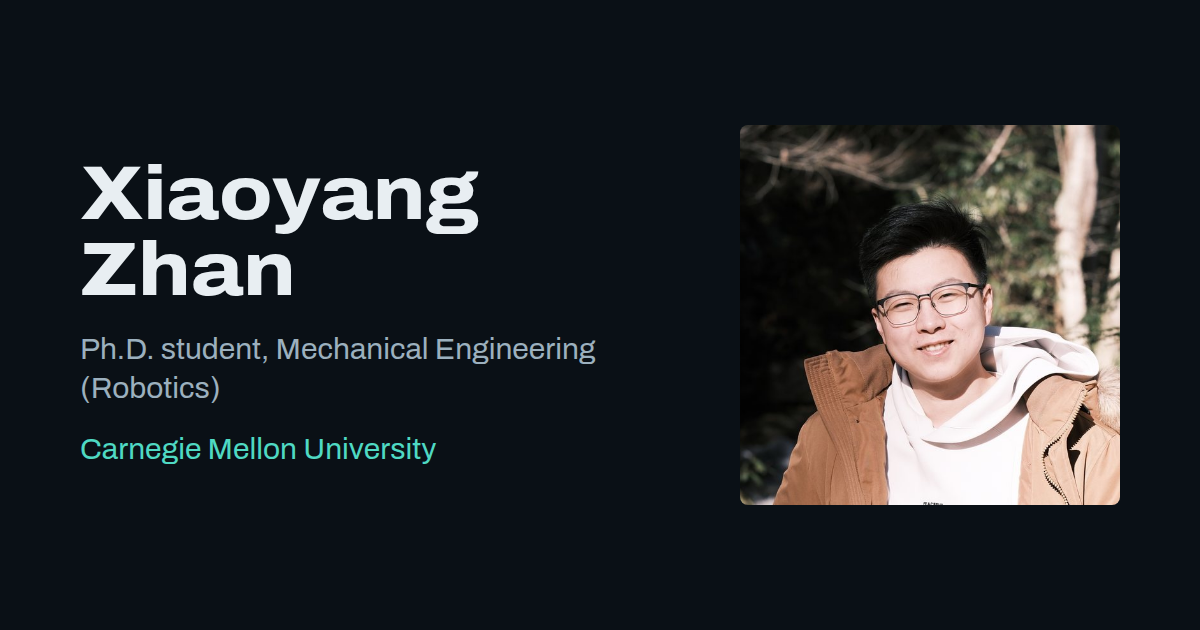
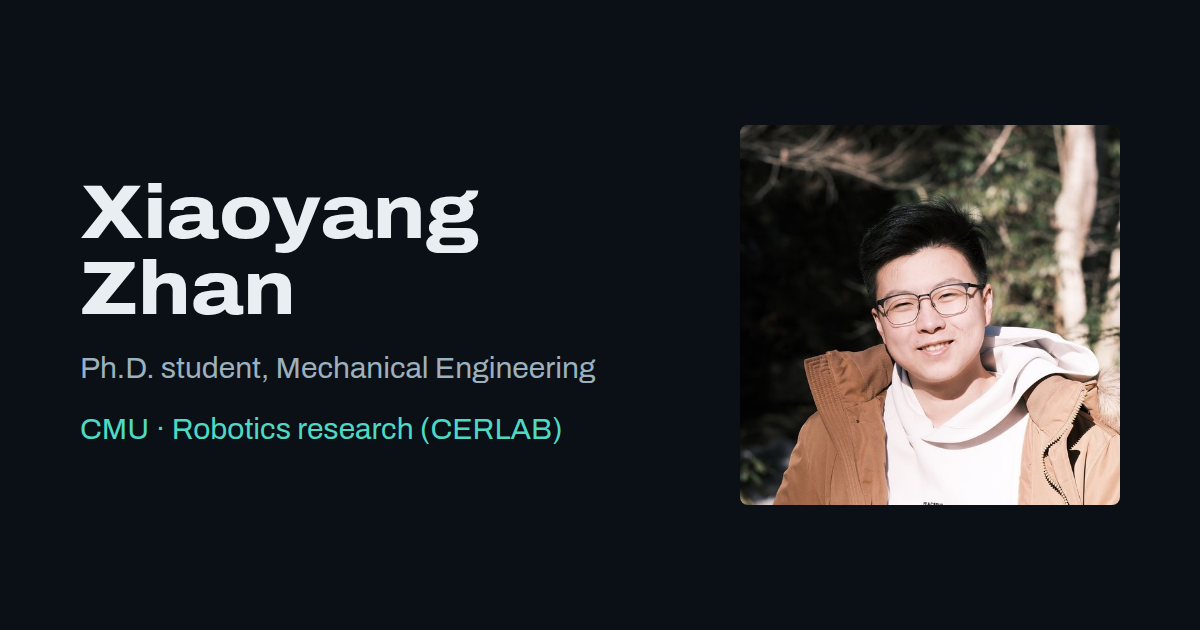
update

Changed region(s): [[0.0617, 0.2413, 0.4008, 0.5127], [0.0617, 0.5429, 0.4933, 0.6333], [0.0617, 0.6635, 0.4933, 0.754]]

diff --git a/src/data/site.ts b/src/data/site.ts
@@ -8,8 +8,9 @@ export const site = {
     'Ph.D. student at Carnegie Mellon University (CERLAB) working on decision-making, active perception, and semantic mapping for single robots and multi-robot teams, with hands-on experience across the robot autonomy stack.',
   url: 'https://shawn207.github.io',
 
-  role: 'Ph.D. student, Mechanical Engineering (Robotics)',
+  role: 'Ph.D. student in Mechanical Engineering',
   affiliation: 'Carnegie Mellon University',
+  focus: 'Robotics research (CERLAB)',
 
   portrait: {
     src: '/media/portrait.jpg',
@@ -36,41 +37,32 @@ export const site = {
   cv: '/Xiaoyang_Zhan_CV.pdf',
 
   researchInterest:
-    'My research is about how robots decide where to look and where to go: decision-making and planning for single robots and multi-robot teams, active perception, and semantic mapping, validated on a Boston Dynamics Spot and custom UAVs. Lately I have been connecting these with vision-language models for embodied AI.',
+    'How robots decide where to look and where to go: decision-making and planning for single robots and multi-robot teams, active perception, and semantic mapping, validated on a Boston Dynamics Spot and custom UAVs. Lately I am connecting these with vision-language models for embodied AI.',
 
-  themes: [
-    {
-      title: 'Decision-making for robots and robot teams',
-      text: 'How a robot picks its next viewpoint or goal, and how a team divides the work when its members sense and move differently.',
-    },
-    {
-      title: 'Active perception and semantic mapping',
-      text: 'Planning where to look so a robot gathers the observations a task needs, and turning those observations into maps it can plan on.',
-    },
-    {
-      title: 'Vision-language models in the loop',
-      text: 'Using VLM judgments, grounded in spatial memory, to make planning decisions that a robot can execute.',
-    },
+  topics: [
+    'Decision-making for robots and robot teams',
+    'Active perception and semantic mapping',
+    'Vision-language models in the loop',
   ],
 
   strengths: {
-    lede: 'My strength is the whole robot-autonomy stack, and the field experience to make it work on real machines. I build the pieces and connect them: sensing and calibration, mapping, planning, and the execution layer that keeps a robot safe when the plan meets reality. These systems have run on a legged robot and on custom quadrotors, in machine shops, lobbies, construction-site mock-ups, and indoor flight arenas. I also mentor a research team of up to eight.',
+    lede: 'The whole robot-autonomy stack, plus the field experience to make it work on real machines: a legged robot and custom quadrotors, in machine shops, lobbies, construction-site mock-ups, and flight arenas. I also mentor a research team of up to eight.',
     layers: [
       {
         label: 'Sensing and calibration',
-        text: 'LiDAR-camera fusion and calibration, panoramic and RGB-D perception, real-time dynamic-object detection and tracking.',
+        text: 'LiDAR-camera fusion and calibration, panoramic and RGB-D perception, dynamic-object tracking.',
       },
       {
         label: 'Mapping and estimation',
-        text: 'FAST-LIO2 odometry, occupancy mapping, dense semantic object mapping, Kalman-filter tracking, Segment Anything, PyTorch and OpenCV.',
+        text: 'FAST-LIO2 and VINS, occupancy and dense semantic object mapping, Segment Anything, PyTorch, OpenCV.',
       },
       {
         label: 'Planning and decision-making',
-        text: 'Viewpoint sampling, hierarchical exploration planning, TSP solvers (LKH), A*/Dijkstra, probabilistic roadmaps, safe execution and recovery state machines, and VLM-assisted decisions.',
+        text: 'Viewpoint sampling, hierarchical exploration, TSP (LKH), A*, roadmaps, recovery state machines, VLM-assisted decisions.',
       },
       {
         label: 'Systems and deployment',
-        text: 'ROS, including multi-robot networking, MAVROS and PX4, Spot SDK, Jetson and NUC onboard computers, Docker, Linux, with Isaac Sim, Isaac Lab, Gazebo, and Habitat for simulation.',
+        text: 'ROS and multi-robot networking, PX4, Spot SDK, Jetson and NUC, Docker, Isaac Sim, Gazebo, Habitat.',
       },
     ],
   },
@@ -78,8 +70,8 @@ export const site = {
   education: [
     {
       when: 'In progress',
-      what: 'Ph.D., Mechanical Engineering (Robotics), Carnegie Mellon University',
-      note: 'CERLAB, advised by Prof. Kenji Shimada',
+      what: 'Ph.D., Mechanical Engineering, Carnegie Mellon University',
+      note: 'Robotics research in CERLAB, advised by Prof. Kenji Shimada',
     },
     { when: '2023', what: 'M.S., Mechanical Engineering, Carnegie Mellon University' },
     {

diff --git a/src/styles/global.css b/src/styles/global.css
@@ -363,7 +363,7 @@ a.chip:hover {
   display: grid;
   gap: clamp(1.5rem, 3vw, 2.5rem);
   align-items: center;
-  padding-block: clamp(1rem, 3.5vw, 2.75rem) clamp(3rem, 6vw, 5rem);
+  padding-block: clamp(1rem, 3vw, 2.25rem) clamp(1.75rem, 3vw, 2.5rem);
 }
 
 /* On narrow screens the headline comes first, then the photo, then the text. */
@@ -377,12 +377,21 @@ a.chip:hover {
   line-height: 1.04;
 }
 .hero-role {
+  text-wrap: pretty;
   display: block;
   margin-top: 0.7rem;
   font-size: clamp(1.0625rem, 1.5vw, 1.35rem);
   font-weight: 560;
   line-height: 1.3;
   color: var(--ink-2);
+}
+.hero-aff {
+  white-space: nowrap;
+}
+.hero-focus {
+  display: block;
+  margin-top: 0.15rem;
+  font-weight: 460;
 }
 .hero .portrait {
   order: 2;
@@ -650,31 +659,6 @@ a.chip:hover {
 }
 
 /* Research themes, education, contact ------------------------------------------------------ */
-
-.themes {
-  display: grid;
-  gap: 2rem;
-}
-@media (min-width: 760px) {
-  .themes {
-    grid-template-columns: repeat(3, minmax(0, 1fr));
-    gap: 2.5rem;
-  }
-}
-.theme {
-  padding-top: 0.95rem;
-  border-top: 2px solid var(--ink);
-}
-.theme h3 {
-  margin-bottom: 0.55rem;
-  font-size: 1.1rem;
-  font-stretch: 108%;
-  line-height: 1.2;
-}
-.theme p {
-  margin: 0;
-  font-size: 1rem;
-}
 
 .rows {
   display: grid;
@@ -1228,4 +1212,73 @@ div.hardware-more .chips {
 }
 .platform:has(.platform-photo) {
   align-items: start;
+}
+
+/* Research interest and strengths, side by side under the intro ------------------------------- */
+
+.glance {
+  display: grid;
+  grid-template-columns: minmax(0, 1fr);
+  gap: 2.25rem 3.5rem;
+  padding-block: clamp(1.75rem, 3vw, 2.25rem) clamp(2.5rem, 5vw, 3.5rem);
+  border-top: 1px solid var(--rule);
+}
+@media (min-width: 900px) {
+  .glance {
+    grid-template-columns: minmax(0, 5fr) minmax(0, 7fr);
+  }
+}
+.glance-h {
+  margin-bottom: 0.65rem;
+  padding-top: 0.7rem;
+  border-top: 2px solid var(--ink);
+  font-size: 1.05rem;
+  font-stretch: 112%;
+  font-weight: 720;
+  scroll-margin-top: 1.5rem;
+}
+.glance-text {
+  margin: 0 0 0.9rem;
+  font-size: 1rem;
+  line-height: 1.55;
+}
+.glance-topics {
+  display: flex;
+  flex-wrap: wrap;
+  gap: 0.4rem;
+  margin: 0;
+  padding: 0;
+  list-style: none;
+}
+.glance-topics li {
+  padding: 0.2rem 0.65rem;
+  border: 1px solid var(--rule);
+  border-radius: 999px;
+  color: var(--ink-2);
+  font-size: 0.875rem;
+  font-weight: 540;
+}
+.glance-rows {
+  display: grid;
+  gap: 0;
+  margin: 0;
+  padding: 0;
+  list-style: none;
+}
+.glance-rows li {
+  display: grid;
+  gap: 0.1rem 1.25rem;
+  padding-block: 0.5rem;
+  border-top: 1px solid var(--rule);
+  font-size: 0.95rem;
+  line-height: 1.45;
+}
+@media (min-width: 640px) {
+  .glance-rows li {
+    grid-template-columns: 13.5rem minmax(0, 1fr);
+  }
+}
+.glance-rows .label {
+  color: var(--ink-2);
+  font-weight: 600;
 }
